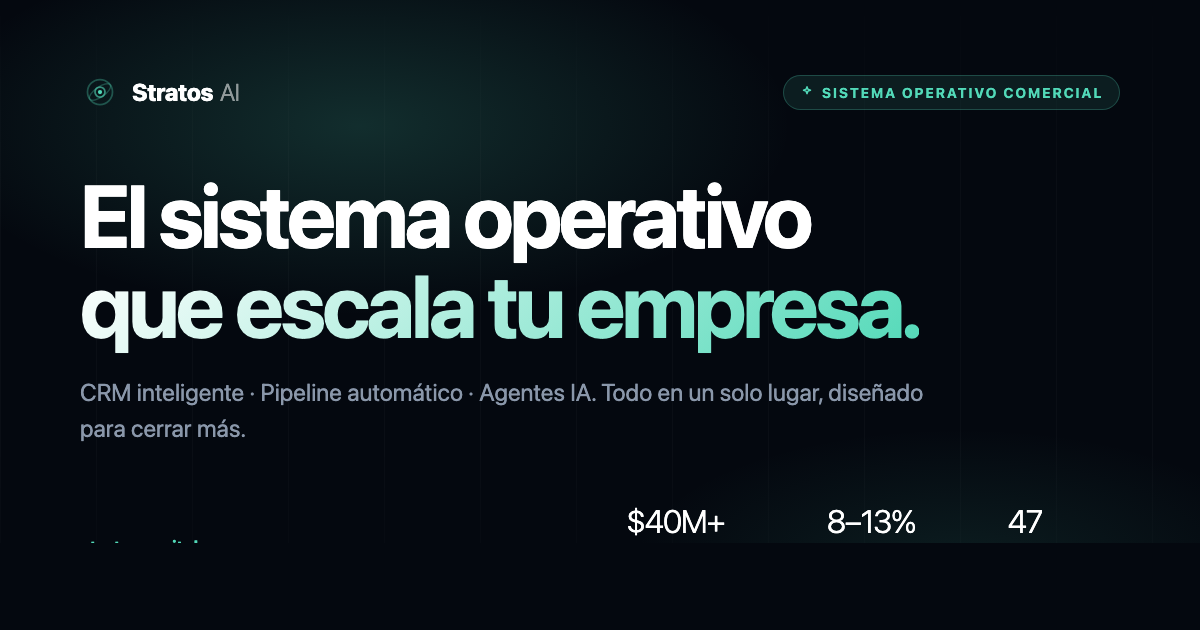
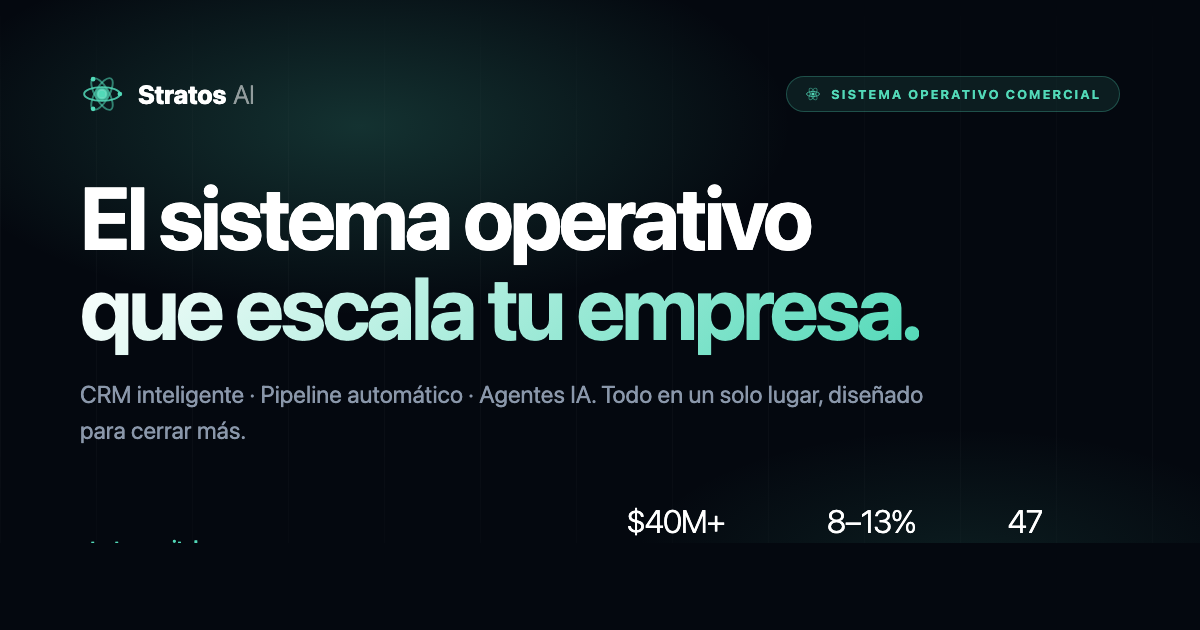
feat(landing): átomos potentes + botones de alto contraste (#37)
* perf(crm): aplica payload de Realtime al estado local sin re-fetch

Antes: cada INSERT/UPDATE/DELETE de Realtime disparaba fetchLeads()
que descargaba toda la tabla (~600KB-1MB) y bloqueaba el path crítico
de "guardar lead" 400-800ms.

Ahora: los 3 listeners aplican el payload.new directamente al array
local (insert dedupado por id, update por id, delete por id). El
soft-delete de otro cliente se detecta por deleted_at en payload.new.

Salvaguarda: si el payload llega degenerado (sin id o sin stage),
cae a fetchLeads() como antes. fetchLeads sigue corriendo al montar
y en auto-recovery.

Sin cambios de comportamiento visible. No toca auth, offline mode,
papelera, optimistic UI ni Realtime entre clientes.

* perf(crm): memoiza normalizeLeads por id+updated_at

Cache Map<id, { stamp, row }> donde stamp = updated_at || created_at.
Si una fila ya fue normalizada y su stamp no cambió, devuelve la MISMA
referencia → React.memo / useMemo aguas abajo evita recomputar y
ahorramos JSON.parse x3 por fila en cada refresh.

Beneficio: reduce re-renders en cascada cuando solo una fila cambió
(drag & drop, edición de campo). El cache crece a lo sumo al # de
leads de la org (~1K), memoria despreciable.

La firma pública de normalizeLeads no cambia — todos los call sites
(fetchLeads y los handlers de Realtime de Fase 1) siguen idénticos.

* chore(hooks): elimina useLeads.js (dead code)

Verificado por grep: nadie en src/ lo importa. Apuntaba a tabla LEADS
[…]

diff --git a/src/landing/DeliveryHubCRM.jsx b/src/landing/DeliveryHubCRM.jsx
@@ -14,7 +14,7 @@ import { useEffect } from "react";
 import {
   ArrowRight, ArrowLeft, ChevronDown, CheckCircle2, Clock,
   Users, Database, MessageCircle, Bot, ShieldCheck, Zap,
-  TrendingUp, FileText, Layers, Lock, Cloud, Sparkles, Mail,
+  TrendingUp, FileText, Layers, Lock, Cloud, Mail,
   Layout, Building2, Wallet, BriefcaseBusiness, LineChart, Workflow,
 } from "lucide-react";
 
@@ -136,54 +136,69 @@ const CSS = `
     color: ${P.amber};
   }
 
-  /* CTA buttons */
+  /* CTA buttons — alta legibilidad sobre cualquier fondo */
   .dh-btn-primary {
     display: inline-flex;
     align-items: center;
     justify-content: center;
-    gap: 8px;
-    padding: 14px 22px;
+    gap: 10px;
+    padding: 15px 26px;
     border-radius: 12px;
-    background: ${P.accentG};
-    color: #04080F;
-    font-size: 14.5px;
-    font-weight: 700;
-    letter-spacing: 0.01em;
+    /* gradiente más oscuro hacia los bordes para resaltar texto */
+    background: linear-gradient(135deg, #6FE7C6 0%, #34C49C 60%, #2BA882 100%);
+    color: #021712;
+    font-size: 15px;
+    font-weight: 800;
+    letter-spacing: 0.005em;
     text-decoration: none;
     border: none;
     cursor: pointer;
-    transition: all 0.25s;
-    box-shadow: 0 4px 18px rgba(82,217,184,0.18);
+    transition: transform 0.18s ease, box-shadow 0.18s ease, filter 0.18s ease;
+    box-shadow:
+      inset 0 1px 0 rgba(255,255,255,0.4),
+      inset 0 -1px 0 rgba(0,0,0,0.18),
+      0 6px 20px rgba(82,217,184,0.32),
+      0 2px 6px rgba(0,0,0,0.25);
     font-family: ${fontD};
   }
   .dh-btn-primary:hover {
-    box-shadow: 0 6px 26px rgba(82,217,184,0.32);
     transform: translateY(-1px);
-    opacity: 1;
+    filter: brightness(1.05);
+    box-shadow:
+      inset 0 1px 0 rgba(255,255,255,0.5),
+      inset 0 -1px 0 rgba(0,0,0,0.2),
+      0 10px 28px rgba(82,217,184,0.44),
+      0 3px 10px rgba(0,0,0,0.3);
+  }
+  .dh-btn-primary:active {
+    transform: translateY(0);
+    filter: brightness(0.96);
   }
   .dh-btn-secondary {
     display: inline-flex;
     align-items: center;
     justify-content: center;
-    gap: 8px;
-    padding: 14px 22px;
+    gap: 10px;
+    padding: 14px 24px;
     border-radius: 12px;
-    background: transparent;
-    color: ${P.txt};
+    background: rgba(255,255,255,0.04);
+    color: ${P.w};
     font-size: 14px;
-    font-weight: 500;
-    letter-spacing: 0.01em;
+    font-weight: 600;
+    letter-spacing: 0.005em;
     text-decoration: none;
-    border: 1px solid ${P.border};
+    border: 1px solid ${P.borderH};
     cursor: pointer;
     transition: all 0.2s;
     font-family: ${font};
   }
   .dh-btn-secondary:hover {
-    background: ${P.glass};
-    border-color: ${P.borderH};
+    background: rgba(255,255,255,0.08);
+    border-color: rgba(255,255,255,0.22);
     color: ${P.w};
+    transform: translateY(-1px);
   }
+  .dh-btn-secondary:active { transform: translateY(0); }
 
   /* Icon box */
   .dh-icon-box {
@@ -320,7 +335,7 @@ const CSS = `
 `;
 
 /* ═══════════════════════════════════════════════════════════════════════════
-   LOGO
+   LOGO Stratos clásico (uso sutil en footer)
    ═══════════════════════════════════════════════════════════════════════════ */
 function StratosAtom({ size = 22, color = P.accent }) {
   return (
@@ -329,6 +344,37 @@ function StratosAtom({ size = 22, color = P.accent }) {
       <circle cx="16" cy="16" r="4"  stroke={color} strokeWidth="1.2" opacity="0.62" />
       <circle cx="16" cy="16" r="1.5" fill={color} />
       <ellipse cx="16" cy="16" rx="10" ry="4" stroke={color} strokeWidth="1" opacity="0.25" transform="rotate(-35 16 16)" />
+    </svg>
+  );
+}
+
+/* ═══════════════════════════════════════════════════════════════════════════
+   PowerAtom — átomo potente para destacar marca y momentos importantes
+   3 órbitas elípticas rotadas + núcleo radial brillante + 3 electrones
+   ═══════════════════════════════════════════════════════════════════════════ */
+function PowerAtom({ size = 16, color = P.accent }) {
+  const uid = `pa-${size}-${color.replace(/[^a-z0-9]/gi, '')}`;
+  return (
+    <svg width={size} height={size} viewBox="0 0 32 32" fill="none" aria-hidden="true">
+      <defs>
+        <radialGradient id={`${uid}-core`} cx="50%" cy="50%" r="50%">
+          <stop offset="0%"  stopColor="#FFFFFF" stopOpacity="0.95" />
+          <stop offset="60%" stopColor={color}   stopOpacity="0.95" />
+          <stop offset="100%" stopColor={color}  stopOpacity="0" />
+        </radialGradient>
+      </defs>
+      {/* 3 órbitas a 0°, 60°, -60° */}
+      <ellipse cx="16" cy="16" rx="13" ry="5" stroke={color} strokeWidth="1.4" opacity="0.85" />
+      <ellipse cx="16" cy="16" rx="13" ry="5" stroke={color} strokeWidth="1.4" opacity="0.55" transform="rotate(60 16 16)" />
+      <ellipse cx="16" cy="16" rx="13" ry="5" stroke={color} strokeWidth="1.4" opacity="0.55" transform="rotate(-60 16 16)" />
+      {/* Halo del núcleo */}
+      <circle cx="16" cy="16" r="6" fill={`url(#${uid}-core)`} />
+      {/* Núcleo sólido */}
+      <circle cx="16" cy="16" r="2.6" fill={color} />
+      {/* Electrones */}
+      <circle cx="29"  cy="16"  r="1.7" fill={color} />
+      <circle cx="9.5" cy="5.2" r="1.7" fill={color} />
+      <circle cx="9.5" cy="26.8" r="1.7" fill={color} />
     </svg>
   );
 }
@@ -371,10 +417,10 @@ export default function DeliveryHubCRM() {
           padding: "16px 24px", gap: 16,
         }}>
           <a href="https://stratoscapitalgroup.com" style={{
-            display: "flex", alignItems: "center", gap: 9, color: P.w,
+            display: "flex", alignItems: "center", gap: 10, color: P.w,
             fontWeight: 700, fontSize: 15, fontFamily: fontD, letterSpacing: "-0.01em",
           }}>
-            <StratosAtom size={22} color={P.accent} />
+            <PowerAtom size={22} color={P.accent} />
             Stratos <span style={{ fontWeight: 300, opacity: 0.55 }}>AI</span>
           </a>
           <a href={APP_URL} className="dh-btn-secondary" style={{ padding: "9px 16px", fontSize: 13 }}>
@@ -389,7 +435,7 @@ export default function DeliveryHubCRM() {
         <div className="dh-container">
           <div className="dh-reveal" style={{ animationDelay: "0.05s" }}>
             <span className="dh-pill" style={{ marginBottom: 24 }}>
-              <Sparkles size={12} />
+              <PowerAtom size={14} color={P.accent} />
               Entrega oficial · Mayo 2026
             </span>
           </div>
@@ -532,7 +578,7 @@ export default function DeliveryHubCRM() {
                 desc: "Ves de un solo vistazo todos los clientes, en qué etapa están y cuáles necesitan atención. Mover un cliente entre etapas es arrastrar y soltar — como mover papelitos en un corcho, pero digital.",
               },
               {
-                icon: Sparkles,
+                icon: PowerAtom,
                 title: "Asistente IA que califica clientes",
                 desc: "Cada cliente recibe un puntaje del 0 al 100 según qué tan probable es que cierre. El asistente lee los datos, los movimientos y la actividad — y te dice quién priorizar HOY.",
               },

diff --git a/src/landing/ManualCRM.jsx b/src/landing/ManualCRM.jsx
@@ -15,7 +15,7 @@
  */
 import { useState, useEffect, useMemo } from "react";
 import {
-  ArrowLeft, ArrowRight, Search, Sparkles, Bot, X,
+  ArrowLeft, ArrowRight, Search, Bot, X,
   ChevronRight, Lightbulb, AlertTriangle, Mail, MessageCircle,
   // Iconos usados por las secciones (importados aquí para que esté en bundle)
   LogIn, KeyRound, Layout, UserPlus, FileSearch, MoveRight, Workflow,
@@ -64,7 +64,10 @@ const APP_URL = "https://app.stratoscapitalgroup.com";
    Permite usar icon: 'LogIn' como string en manual-content.js
    ═══════════════════════════════════════════════════════════════════════════ */
 const ICON_MAP = {
-  Sparkles, Users, Layers, FileText, UsersRound, LineChart,
+  // 'Sparkles' del manual-content.js queda mapeado al átomo potente
+  Sparkles: PowerAtom,
+  Atom: PowerAtom,
+  Users, Layers, FileText, UsersRound, LineChart,
   MessageCircle, LifeBuoy,
   LogIn, KeyRound, Layout, UserPlus, FileSearch, MoveRight, Workflow,
   NotebookPen, CheckSquare, History, UserCheck, ShieldUser: ShieldCheck,
@@ -318,7 +321,7 @@ const CSS = `
 `;
 
 /* ═══════════════════════════════════════════════════════════════════════════
-   LOGO
+   LOGO Stratos clásico (uso sutil en footer)
    ═══════════════════════════════════════════════════════════════════════════ */
 function StratosAtom({ size = 22, color = P.accent }) {
   return (
@@ -327,6 +330,33 @@ function StratosAtom({ size = 22, color = P.accent }) {
       <circle cx="16" cy="16" r="4"  stroke={color} strokeWidth="1.2" opacity="0.62" />
       <circle cx="16" cy="16" r="1.5" fill={color} />
       <ellipse cx="16" cy="16" rx="10" ry="4" stroke={color} strokeWidth="1" opacity="0.25" transform="rotate(-35 16 16)" />
+    </svg>
+  );
+}
+
+/* ═══════════════════════════════════════════════════════════════════════════
+   PowerAtom — átomo potente con 3 órbitas + electrones + núcleo radial
+   Usado en el nav y como icono destacado en secciones IA / "Empezar".
+   ═══════════════════════════════════════════════════════════════════════════ */
+function PowerAtom({ size = 16, color = P.accent }) {
+  const uid = `mpa-${size}-${color.replace(/[^a-z0-9]/gi, '')}`;
+  return (
+    <svg width={size} height={size} viewBox="0 0 32 32" fill="none" aria-hidden="true">
+      <defs>
+        <radialGradient id={`${uid}-core`} cx="50%" cy="50%" r="50%">
+          <stop offset="0%"  stopColor="#FFFFFF" stopOpacity="0.95" />
+          <stop offset="60%" stopColor={color}   stopOpacity="0.95" />
+          <stop offset="100%" stopColor={color}  stopOpacity="0" />
+        </radialGradient>
+      </defs>
+      <ellipse cx="16" cy="16" rx="13" ry="5" stroke={color} strokeWidth="1.4" opacity="0.85" />
+      <ellipse cx="16" cy="16" rx="13" ry="5" stroke={color} strokeWidth="1.4" opacity="0.55" transform="rotate(60 16 16)" />
+      <ellipse cx="16" cy="16" rx="13" ry="5" stroke={color} strokeWidth="1.4" opacity="0.55" transform="rotate(-60 16 16)" />
+      <circle cx="16" cy="16" r="6" fill={`url(#${uid}-core)`} />
+      <circle cx="16" cy="16" r="2.6" fill={color} />
+      <circle cx="29"  cy="16"  r="1.7" fill={color} />
+      <circle cx="9.5" cy="5.2" r="1.7" fill={color} />
+      <circle cx="9.5" cy="26.8" r="1.7" fill={color} />
     </svg>
   );
 }
@@ -454,10 +484,10 @@ export default function ManualCRM() {
           gap: 16, flexWrap: "wrap",
         }}>
           <a href="https://stratoscapitalgroup.com" style={{
-            display: "flex", alignItems: "center", gap: 9, color: P.w,
+            display: "flex", alignItems: "center", gap: 10, color: P.w,
             fontWeight: 700, fontSize: 15, fontFamily: fontD, letterSpacing: "-0.01em",
           }}>
-            <StratosAtom size={22} color={P.accent} />
+            <PowerAtom size={22} color={P.accent} />
             Stratos <span style={{ fontWeight: 300, opacity: 0.55 }}>AI</span>
             <span style={{
               marginLeft: 12, paddingLeft: 12, borderLeft: `1px solid ${P.border}`,
@@ -605,7 +635,7 @@ export default function ManualCRM() {
                     aria-disabled="true"
                   />
                   <button type="button" className="mn-ai-button" disabled aria-disabled="true">
-                    <Sparkles size={14} />
+                    <PowerAtom size={14} color={P.txt3} />
                     Preguntar
                   </button>
                 </div>